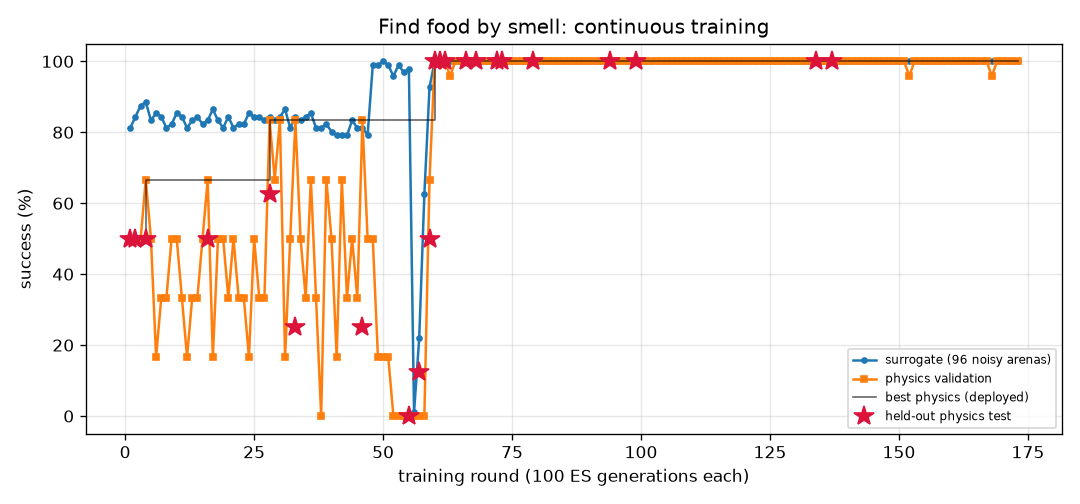
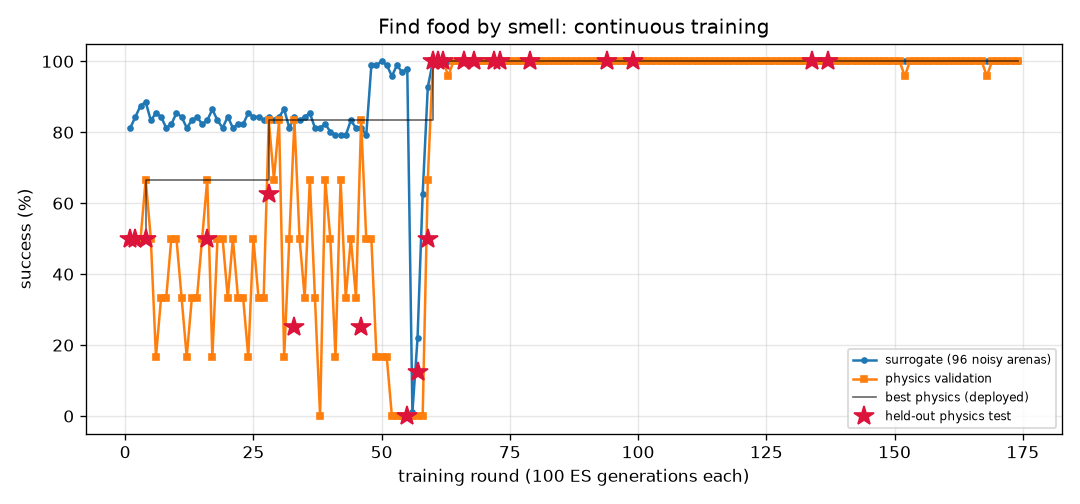
FlyLab: continuous training progress
- walk_forward: optimal, physics val 100% of 24, round 247
- turn: optimal, physics val 100% of 24, round 782
- goto: optimal, physics val 100% of 24, round 204
- odor_seek: optimal, physics val 100% of 24, round 174
- odor_avoid: optimal, physics val 100% of 24, round 711
- light_seek: optimal, physics val 100% of 24, round 399
- light_avoid: optimal, physics val 100% of 24, round 447

diff --git a/projects/09_flylab/training/turn/REPORT.md b/projects/09_flylab/training/turn/REPORT.md
@@ -1,14 +1,14 @@
 # Turn in place (`turn`) — training report
 
-*Auto-generated by `train_brains.py`, last updated 2026-10-31T23:11:43.*
+*Auto-generated by `train_brains.py`, last updated 2026-11-01T14:17:56.*
 
 ![curve](curve.png)
 
 | | |
 |---|---|
-| rounds | 772 |
-| ES generations | 77200 |
-| physics runs | 18774 |
+| rounds | 782 |
+| ES generations | 78200 |
+| physics runs | 19014 |
 | status | **optimal** |
 | best brain | round 80: physics validation **100%** on 24 arenas, surrogate 100% |
 | held-out physics test | **97%** on 32 unseen arenas (95% CI 84%-99%) (errors: [1.6, 3.3, 6.3, 3.7, 1.1, 0.4, 2.4, 2.9, 0.1, 2.6, 0.5, 2.7, 1.5, 3.1, 4.5, 0.2, 0.5, 1.1, 2.0, 4.4, 2.8, 3.2, 0.3, 2.2, 0.5, 3.0, 0.3, 5.4, 0.4, 1.0, 4.7, 10.7]) |
@@ -17,16 +17,6 @@ Physics error per arena: deg from target heading (< 20 = success).
 
 | round | level | gens | sigma | surrogate | physics val | val errors | test | note |
 |---:|---:|---:|---:|---:|---:|---|---:|---|
-| 733 | 3 | 73300 | 0.024 | 99% | 100% | [1.8, 8.6, 3.6, 0.8, 1.1, 3.4, 3.2, 1.3, 5.0, 1.5, 2.7, 0.9, 3.5, 4.3, 2.6, 1.6, 0.7, 1.3, 1.5, 0.9, 6.1, 0.9, 5.2, 0.6] |  |  |
-| 734 | 3 | 73400 | 0.025 | 99% | 83% | [3.7, 3.0, 3.5, 1.0, 0.6, 3.3, 5.0, 6.8, 5.0, 0.2, 4.7, 0.2, 1.0, 1.7, 4.4, 0.9, 0.3, 1.5, 0.8, 4.5, 4.5, 1.7, 0.1, 5.2] |  |  |
-| 735 | 3 | 73500 | 0.025 | 100% | 83% | [5.3, 5.6, 2.8, 0.0, 2.0, 0.8, 3.3, 2.8, 3.3, 0.8, 3.8, 0.7, 2.1, 3.6, 4.5, 0.7, 0.5, 0.1, 0.3, 1.3, 4.4, 0.6, 4.7, 1.2] |  |  |
-| 736 | 3 | 73600 | 0.024 | 99% | 88% | [6.4, 6.7, 3.8, 0.5, 11.2, 3.7, 5.8, 0.1, 6.1, 14.2, 4.2, 1.1, 1.3, 2.6, 5.4, 0.0, 0.6, 0.7, 2.6, 0.7, 3.8, 1.1, 5.8, 4.5] |  | restart from best |
-| 737 | 3 | 73700 | 0.024 | 99% | 96% | [0.8, 4.2, 4.2, 2.7, 2.2, 1.9, 6.1, 7.9, 8.2, 0.1, 4.6, 0.6, 2.5, 2.5, 4.5, 1.6, 0.7, 1.8, 0.0, 2.5, 2.3, 1.4, 5.8, 1.3] |  |  |
-| 738 | 3 | 73800 | 0.025 | 99% | 79% | [7.1, 9.9, 8.6, 0.9, 4.4, 0.2, 4.3, 0.1, 3.6, 0.3, 3.6, 2.3, 2.9, 5.6, 2.8, 0.5, 3.0, 0.5, 0.2, 1.3, 8.0, 0.1, 3.2, 3.0] |  |  |
-| 739 | 3 | 73900 | 0.025 | 99% | 96% | [0.7, 4.4, 11.4, 0.8, 11.5, 0.6, 4.6, 6.3, 6.6, 1.2, 5.1, 1.0, 1.3, 0.6, 3.9, 1.9, 1.1, 1.5, 0.6, 1.1, 2.3, 1.3, 5.4, 0.4] |  |  |
-| 740 | 3 | 74000 | 0.025 | 99% | 83% | [6.5, 4.6, 0.1, 3.1, 5.9, 1.8, 5.2, 3.1, 5.6, 1.9, 4.7, 1.2, 2.8, 0.9, 4.7, 1.4, 0.3, 1.6, 0.8, 0.9, 3.1, 1.0, 5.8, 6.0] |  | restart from best |
-| 741 | 3 | 74100 | 0.024 | 99% | 96% | [9.6, 10.0, 7.3, 5.8, 2.7, 5.4, 0.4, 5.8, 0.8, 4.7, 0.3, 3.4, 5.1, 4.1, 0.6, 5.4, 4.1, 3.4, 5.3, 5.5, 5.7, 2.4, 0.2, 8.5] |  |  |
-| 742 | 3 | 74200 | 0.025 | 99% | 92% | [1.9, 6.5, 2.8, 2.3, 1.2, 0.6, 4.4, 6.8, 6.3, 0.4, 4.2, 1.2, 0.4, 1.5, 3.1, 8.5, 1.3, 0.6, 4.2, 0.0, 5.2, 16.5, 4.9, 5.4] |  |  |
 | 743 | 3 | 74300 | 0.025 | 100% | 100% | [0.8, 2.1, 0.5, 3.0, 11.4, 2.4, 4.9, 4.5, 6.7, 1.9, 3.7, 2.4, 1.6, 1.2, 2.9, 11.5, 2.5, 1.8, 1.2, 2.9, 2.0, 2.3, 5.8, 2.8] |  |  |
 | 744 | 3 | 74400 | 0.024 | 99% | 96% | [3.9, 1.1, 8.3, 0.3, 4.0, 1.8, 6.6, 9.1, 6.9, 14.6, 5.5, 3.2, 0.1, 0.8, 5.3, 2.3, 3.3, 4.4, 3.6, 1.6, 0.8, 4.4, 5.1, 2.7] |  | restart from best |
 | 745 | 3 | 74500 | 0.024 | 100% | 100% | [8.2, 9.8, 1.9, 0.9, 5.9, 2.7, 2.5, 1.5, 2.3, 2.5, 1.7, 1.4, 4.1, 4.3, 2.0, 1.3, 1.4, 1.4, 1.8, 2.1, 3.1, 1.8, 1.8, 1.4] |  |  |
@@ -57,3 +47,13 @@ Physics error per arena: deg from target heading (< 20 = success).
 | 770 | 3 | 77000 | 0.024 | 97% | 79% | [5.8, 3.0, 5.5, 0.4, 8.1, 1.2, 6.3, 8.2, 5.9, 0.2, 5.8, 0.1, 1.9, 0.3, 5.2, 2.1, 0.2, 1.3, 1.7, 1.5, 7.8, 0.0, 6.8, 6.0] |  |  |
 | 771 | 3 | 77100 | 0.026 | 99% | 71% | [0.6, 6.1, 2.3, 2.8, 3.4, 0.5, 5.6, 0.5, 4.7, 1.1, 5.2, 0.5, 0.4, 0.8, 6.2, 1.2, 0.9, 2.5, 1.1, 1.0, 5.4, 2.6, 5.9, 4.5] |  |  |
 | 772 | 3 | 77200 | 0.025 | 99% | 75% | [3.4, 3.6, 1.8, 1.8, 2.4, 2.9, 4.0, 7.5, 4.3, 1.1, 5.7, 0.7, 1.2, 1.8, 5.0, 0.1, 0.7, 1.6, 0.4, 0.5, 1.5, 0.9, 5.0, 4.3] |  | restart from best |
+| 773 | 3 | 77300 | 0.024 | 100% | 79% | [6.4, 8.5, 0.1, 2.9, 4.0, 2.3, 4.5, 0.9, 0.7, 0.0, 4.2, 0.6, 0.9, 2.9, 2.9, 1.5, 0.3, 0.7, 1.9, 0.5, 3.8, 0.2, 4.5, 3.9] |  |  |
+| 774 | 3 | 77400 | 0.024 | 99% | 92% | [6.4, 8.8, 4.5, 5.8, 5.1, 0.2, 3.5, 0.8, 2.1, 2.5, 2.7, 2.5, 2.9, 2.7, 1.7, 2.2, 2.3, 1.9, 1.8, 2.8, 4.5, 1.9, 0.8, 6.0] |  |  |
+| 775 | 3 | 77500 | 0.025 | 100% | 75% | [8.4, 9.6, 5.7, 0.9, 6.0, 2.5, 4.5, 3.0, 4.0, 1.1, 5.4, 2.1, 0.5, 5.5, 5.3, 0.6, 1.8, 1.9, 0.7, 1.1, 5.2, 0.6, 5.5, 0.2] |  |  |
+| 776 | 3 | 77600 | 0.024 | 99% | 54% | [7.5, 5.3, 1.3, 3.3, 6.1, 4.6, 6.2, 2.4, 5.4, 0.5, 6.8, 0.8, 1.5, 3.7, 4.1, 2.6, 1.6, 0.6, 2.5, 1.9, 5.0, 2.4, 6.6, 6.3] |  | restart from best |
+| 777 | 3 | 77700 | 0.024 | 99% | 79% | [7.2, 7.6, 0.2, 2.2, 0.8, 8.7, 4.8, 1.4, 4.7, 0.7, 4.5, 1.0, 2.3, 4.0, 3.3, 1.3, 0.8, 2.5, 0.9, 0.6, 6.3, 0.8, 3.9, 3.6] |  |  |
+| 778 | 3 | 77800 | 0.025 | 99% | 92% | [8.5, 11.9, 6.8, 4.6, 5.4, 5.3, 0.8, 5.4, 0.4, 1.8, 1.6, 5.0, 0.3, 7.2, 0.3, 3.1, 5.2, 4.4, 4.7, 4.7, 9.2, 0.5, 0.1, 3.5] |  |  |
+| 779 | 3 | 77900 | 0.025 | 99% | 83% | [4.7, 2.0, 2.4, 0.1, 3.8, 0.9, 4.1, 6.7, 7.6, 0.1, 6.1, 0.6, 0.8, 1.4, 4.6, 3.2, 0.4, 2.0, 3.6, 16.1, 3.2, 0.7, 6.7, 8.2] |  |  |
+| 780 | 3 | 78000 | 0.025 | 99% | 75% | [5.0, 5.3, 3.3, 2.0, 4.8, 12.7, 4.6, 6.4, 4.0, 0.1, 3.8, 1.2, 1.4, 1.8, 4.0, 15.8, 1.5, 1.6, 3.7, 0.2, 4.1, 3.1, 7.1, 5.6] |  | restart from best |
+| 781 | 3 | 78100 | 0.024 | 99% | 83% | [7.1, 9.8, 5.3, 5.1, 6.0, 3.3, 3.9, 3.7, 1.3, 0.5, 2.3, 1.9, 4.1, 4.7, 1.7, 2.2, 2.1, 1.0, 1.7, 1.6, 4.6, 3.4, 2.5, 9.5] |  |  |
+| 782 | 3 | 78200 | 0.025 | 98% | 54% | [7.5, 9.2, 1.1, 3.7, 0.9, 4.4, 4.4, 4.3, 4.1, 0.1, 2.4, 3.0, 1.5, 0.3, 1.7, 3.3, 2.9, 0.1, 3.4, 1.0, 7.7, 1.2, 3.1, 1.0] |  |  |

diff --git a/projects/09_flylab/training/odor_seek/REPORT.md b/projects/09_flylab/training/odor_seek/REPORT.md
@@ -1,14 +1,14 @@
 # Find food by smell (`odor_seek`) — training report
 
-*Auto-generated by `train_brains.py`, last updated 2026-10-31T23:06:19.*
+*Auto-generated by `train_brains.py`, last updated 2026-10-31T23:22:53.*
 
 ![curve](curve.png)
 
 | | |
 |---|---|
-| rounds | 173 |
-| ES generations | 17300 |
-| physics runs | 3582 |
+| rounds | 174 |
+| ES generations | 17400 |
+| physics runs | 3606 |
 | status | **optimal** |
 | best brain | round 137: physics validation **100%** on 24 arenas, surrogate 100% |
 | held-out physics test | **100%** on 32 unseen arenas (95% CI 89%-100%) (errors: [0.14, 0.05, 0.19, 0.15, 0.13, 0.08, 0.06, 0.06, 0.04, 0.06, 0.02, 0.11, 0.05, 0.1, 0.06, 0.01, 0.11, 0.12, 0.14, 0.08, 0.12, 0.06, 0.06, 0.09, 0.12, 0.05, 0.07, 0.07, 0.12, 0.11, 0.06, 0.11]) |
@@ -17,7 +17,6 @@ Physics error per arena: mm from target at the end (< 1.5 and standing still = s
 
 | round | level | gens | sigma | surrogate | physics val | val errors | test | note |
 |---:|---:|---:|---:|---:|---:|---|---:|---|
-| 134 | 3 | 13400 | 0.024 | 100% | 100% | [0.08, 0.09, 0.17, 0.12, 0.08, 0.05, 0.16, 0.12, 0.15, 0.05, 0.03, 0.08, 0.09, 0.05, 0.09, 0.12, 0.06, 0.06, 0.06, 0.11, 0.11, 0.05, 0.14, 0.15] | 100% | new best |
 | 135 | 3 | 13500 | 0.024 | 100% | 100% | [0.04, 0.12, 0.17, 0.08, 0.09, 0.15, 0.06, 0.09, 0.09, 0.11, 0.14, 0.17, 0.05, 0.14, 0.11, 0.13, 0.01, 0.13, 0.08, 0.0, 0.12, 0.14, 0.15, 0.14] |  |  |
 | 136 | 3 | 13600 | 0.024 | 100% | 100% | [0.15, 0.12, 0.11, 0.1, 0.03, 0.1, 0.07, 0.04, 0.06, 0.04, 0.13, 0.03, 0.1, 0.06, 0.14, 0.12, 0.11, 0.07, 0.13, 0.04, 0.1, 0.17, 0.13, 0.02] |  |  |
 | 137 | 3 | 13700 | 0.024 | 100% | 100% | [0.1, 0.08, 0.06, 0.05, 0.15, 0.15, 0.12, 0.03, 0.14, 0.14, 0.05, 0.11, 0.16, 0.05, 0.08, 0.07, 0.09, 0.11, 0.15, 0.05, 0.05, 0.1, 0.22, 0.14] | 100% | new best |
@@ -57,3 +56,4 @@ Physics error per arena: mm from target at the end (< 1.5 and standing still = s
 | 171 | 3 | 17100 | 0.024 | 100% | 100% | [0.19, 0.19, 0.13, 0.17, 0.13, 0.15, 0.14, 0.11, 0.2, 0.23, 0.14, 0.22, 0.16, 0.24, 0.21, 0.15, 0.18, 0.26, 0.17, 0.16, 0.23, 0.21, 0.12, 0.15] |  |  |
 | 172 | 3 | 17200 | 0.024 | 100% | 100% | [0.2, 0.26, 0.23, 0.21, 0.19, 0.19, 0.21, 0.32, 0.27, 0.18, 0.27, 0.23, 0.21, 0.2, 0.16, 0.19, 0.19, 0.15, 0.19, 0.2, 0.18, 0.19, 0.21, 0.19] |  |  |
 | 173 | 3 | 17300 | 0.024 | 100% | 100% | [0.22, 0.23, 0.23, 0.23, 0.24, 0.24, 0.18, 0.26, 0.22, 0.21, 0.28, 0.24, 0.27, 0.19, 0.25, 0.26, 0.23, 0.23, 0.23, 0.25, 0.2, 0.19, 0.2, 0.22] |  | restart from best |
+| 174 | 3 | 17400 | 0.024 | 100% | 100% | [0.08, 0.11, 0.13, 0.09, 0.11, 0.08, 0.1, 0.12, 0.05, 0.11, 0.15, 0.13, 0.09, 0.13, 0.08, 0.12, 0.1, 0.13, 0.11, 0.06, 0.09, 0.08, 0.08, 0.1] |  |  |

diff --git a/README.md b/README.md
@@ -89,17 +89,17 @@ automatically as training improves it.*
 </p>
 
 <!-- BRAINS:START -->
-**Status on 2026-10-31** (rewritten daily by `daily.py`; the [dashboard](https://rohitcraftsyt.github.io/FruitFlyBrain/projects/09_flylab/dashboard/) is live):
+**Status on 2026-11-01** (rewritten daily by `daily.py`; the [dashboard](https://rohitcraftsyt.github.io/FruitFlyBrain/projects/09_flylab/dashboard/) is live):
 
 | Skill brain | Rounds | Physics validation | **Held-out physics test** (95% CI) | Fresh-arena check | Status |
 |---|---:|---:|---:|---:|---|
-| Walk forward | 241 | 100% of 24 | **100% of 32** (89%–100%) | 100% of 16 (2026-10-31) | ✅ optimal |
-| Turn in place | 771 | 100% of 24 | **97% of 32** (84%–99%) | 94% of 16 (2026-10-31) | ✅ optimal |
-| Go to a location | 199 | 100% of 24 | **100% of 32** (89%–100%) | 100% of 16 (2026-10-31) | ✅ optimal |
-| Find food by smell | 170 | 100% of 24 | **100% of 32** (89%–100%) | 100% of 16 (2026-10-31) | ✅ optimal |
-| Escape a bad smell | 707 | 100% of 24 | **97% of 32** (84%–99%) | 100% of 16 (2026-10-31) | ✅ optimal |
-| Walk toward light | 394 | 100% of 24 | **100% of 32** (89%–100%) | 100% of 16 (2026-10-31) | ✅ optimal |
-| Hide from light | 440 | 100% of 24 | **100% of 32** (89%–100%) | 100% of 16 (2026-10-31) | ✅ optimal |
+| Walk forward | 247 | 100% of 24 | **100% of 32** (89%–100%) | 100% of 16 (2026-11-01) | ✅ optimal |
+| Turn in place | 781 | 100% of 24 | **97% of 32** (84%–99%) | 100% of 16 (2026-11-01) | ✅ optimal |
+| Go to a location | 204 | 100% of 24 | **100% of 32** (89%–100%) | 100% of 16 (2026-11-01) | ✅ optimal |
+| Find food by smell | 174 | 100% of 24 | **100% of 32** (89%–100%) | 100% of 16 (2026-11-01) | ✅ optimal |
+| Escape a bad smell | 711 | 100% of 24 | **97% of 32** (84%–99%) | 100% of 16 (2026-11-01) | ✅ optimal |
+| Walk toward light | 399 | 100% of 24 | **100% of 32** (89%–100%) | 100% of 16 (2026-11-01) | ✅ optimal |
+| Hide from light | 447 | 100% of 24 | **100% of 32** (89%–100%) | 100% of 16 (2026-11-01) | ✅ optimal |
 <!-- BRAINS:END -->
 
 **How it got here** (full [engineering log](projects/09_flylab/README.md#making-skills-survive-the-jump-to-physics-engineering-log)):

diff --git a/projects/09_flylab/training/TRAINING.md b/projects/09_flylab/training/TRAINING.md
@@ -1,15 +1,15 @@
 # FlyLab brains — continuous training log
 
-*Auto-generated by `train_brains.py`, last updated 2026-10-31T23:11:43.*
+*Auto-generated by `train_brains.py`, last updated 2026-11-01T14:18:02.*
 
 Every skill has its own brain and its own training process: surrogate ES rounds, physics validation in MuJoCo, keep-the-best selection, and a held-out physics test that is never used for selection. See each skill's report for its full round-by-round history. Mastery is progressive: passing a level (100% physics validation, >=95% surrogate) doubles the validation and test arena sets; a brain is **optimal** once it holds up at level 3 (>=95% of 24 validation arenas) AND scores >=90% on the 32 held-out test arenas. Test columns show 95% Wilson confidence intervals.
 
 | skill | rounds | ES generations | physics runs | surrogate | physics val | **physics test** | status |
 |---|---:|---:|---:|---:|---:|---:|---|
 | [Walk forward](walk_forward/REPORT.md) | 247 | 24700 | 5942 | 100% | 100% of 24 | 100% of 32 (CI 89-100%) | **optimal** |
-| [Turn in place](turn/REPORT.md) | 772 | 77200 | 18774 | 100% | 100% of 24 | 97% of 32 (CI 84-99%) | **optimal** |
+| [Turn in place](turn/REPORT.md) | 782 | 78200 | 19014 | 100% | 100% of 24 | 97% of 32 (CI 84-99%) | **optimal** |
 | [Go to a location](goto/REPORT.md) | 204 | 20400 | 4846 | 100% | 100% of 24 | 100% of 32 (CI 89-100%) | **optimal** |
-| [Find food by smell](odor_seek/REPORT.md) | 173 | 17300 | 3582 | 100% | 100% of 24 | 100% of 32 (CI 89-100%) | **optimal** |
+| [Find food by smell](odor_seek/REPORT.md) | 174 | 17400 | 3606 | 100% | 100% of 24 | 100% of 32 (CI 89-100%) | **optimal** |
 | [Escape a bad smell](odor_avoid/REPORT.md) | 711 | 71100 | 14370 | 97% | 100% of 24 | 97% of 32 (CI 84-99%) | **optimal** |
 | [Walk toward light](light_seek/REPORT.md) | 399 | 39900 | 6456 | 100% | 100% of 24 | 100% of 32 (CI 89-100%) | **optimal** |
 | [Hide from light](light_avoid/REPORT.md) | 447 | 44700 | 11000 | 100% | 100% of 24 | 100% of 32 (CI 89-100%) | **optimal** |

diff --git a/projects/09_flylab/training/CHECKS.md b/projects/09_flylab/training/CHECKS.md
@@ -1,15 +1,15 @@
 # Daily fresh-arena checks
 
-*Auto-generated by `recheck.py`, last updated 2026-10-31T20:07:32.*
+*Auto-generated by `recheck.py`, last updated 2026-11-01T14:16:37.*
 
 Every day each optimal brain is re-run in MuJoCo on a new set of random arenas it has never seen. The fixed held-out test decides 'optimal' (>= 90%); these checks watch for brains that only look good on that fixed set. Anything under 80% is flagged.
 
 | skill | last check | brain round | fresh arenas | success (95% CI) | last 7 checks |
 |---|---|---:|---:|---|---|
-| Walk forward | 2026-10-31 | 116 | 16 | 100% (81%-100%) | 100% 100% 100% 100% 100% 100% 100% |
-| Turn in place | 2026-10-31 | 80 | 16 | 94% (72%-99%) | 100% 94% 100% 88% 88% 100% 94% |
-| Go to a location | 2026-10-31 | 176 | 16 | 100% (81%-100%) | 100% 100% 100% 100% 100% 100% 100% |
-| Find food by smell | 2026-10-31 | 137 | 16 | 100% (81%-100%) | 100% 100% 100% 100% 100% 100% 100% |
-| Escape a bad smell | 2026-10-31 | 373 | 16 | 100% (81%-100%) | 94% 100% 94% 100% 100% 100% 100% |
-| Walk toward light | 2026-10-31 | 375 | 16 | 100% (81%-100%) | 100% 100% 100% 100% 100% 100% 100% |
-| Hide from light | 2026-10-31 | 159 | 16 | 100% (81%-100%) | 100% 100% 100% 100% 100% 100% 100% |
+| Walk forward | 2026-11-01 | 116 | 16 | 100% (81%-100%) | 100% 100% 100% 100% 100% 100% 100% |
+| Turn in place | 2026-11-01 | 80 | 16 | 100% (81%-100%) | 94% 100% 88% 88% 100% 94% 100% |
+| Go to a location | 2026-11-01 | 176 | 16 | 100% (81%-100%) | 100% 100% 100% 100% 100% 100% 100% |
+| Find food by smell | 2026-11-01 | 137 | 16 | 100% (81%-100%) | 100% 100% 100% 100% 100% 100% 100% |
+| Escape a bad smell | 2026-11-01 | 373 | 16 | 100% (81%-100%) | 100% 94% 100% 100% 100% 100% 100% |
+| Walk toward light | 2026-11-01 | 375 | 16 | 100% (81%-100%) | 100% 100% 100% 100% 100% 100% 100% |
+| Hide from light | 2026-11-01 | 159 | 16 | 100% (81%-100%) | 100% 100% 100% 100% 100% 100% 100% |
